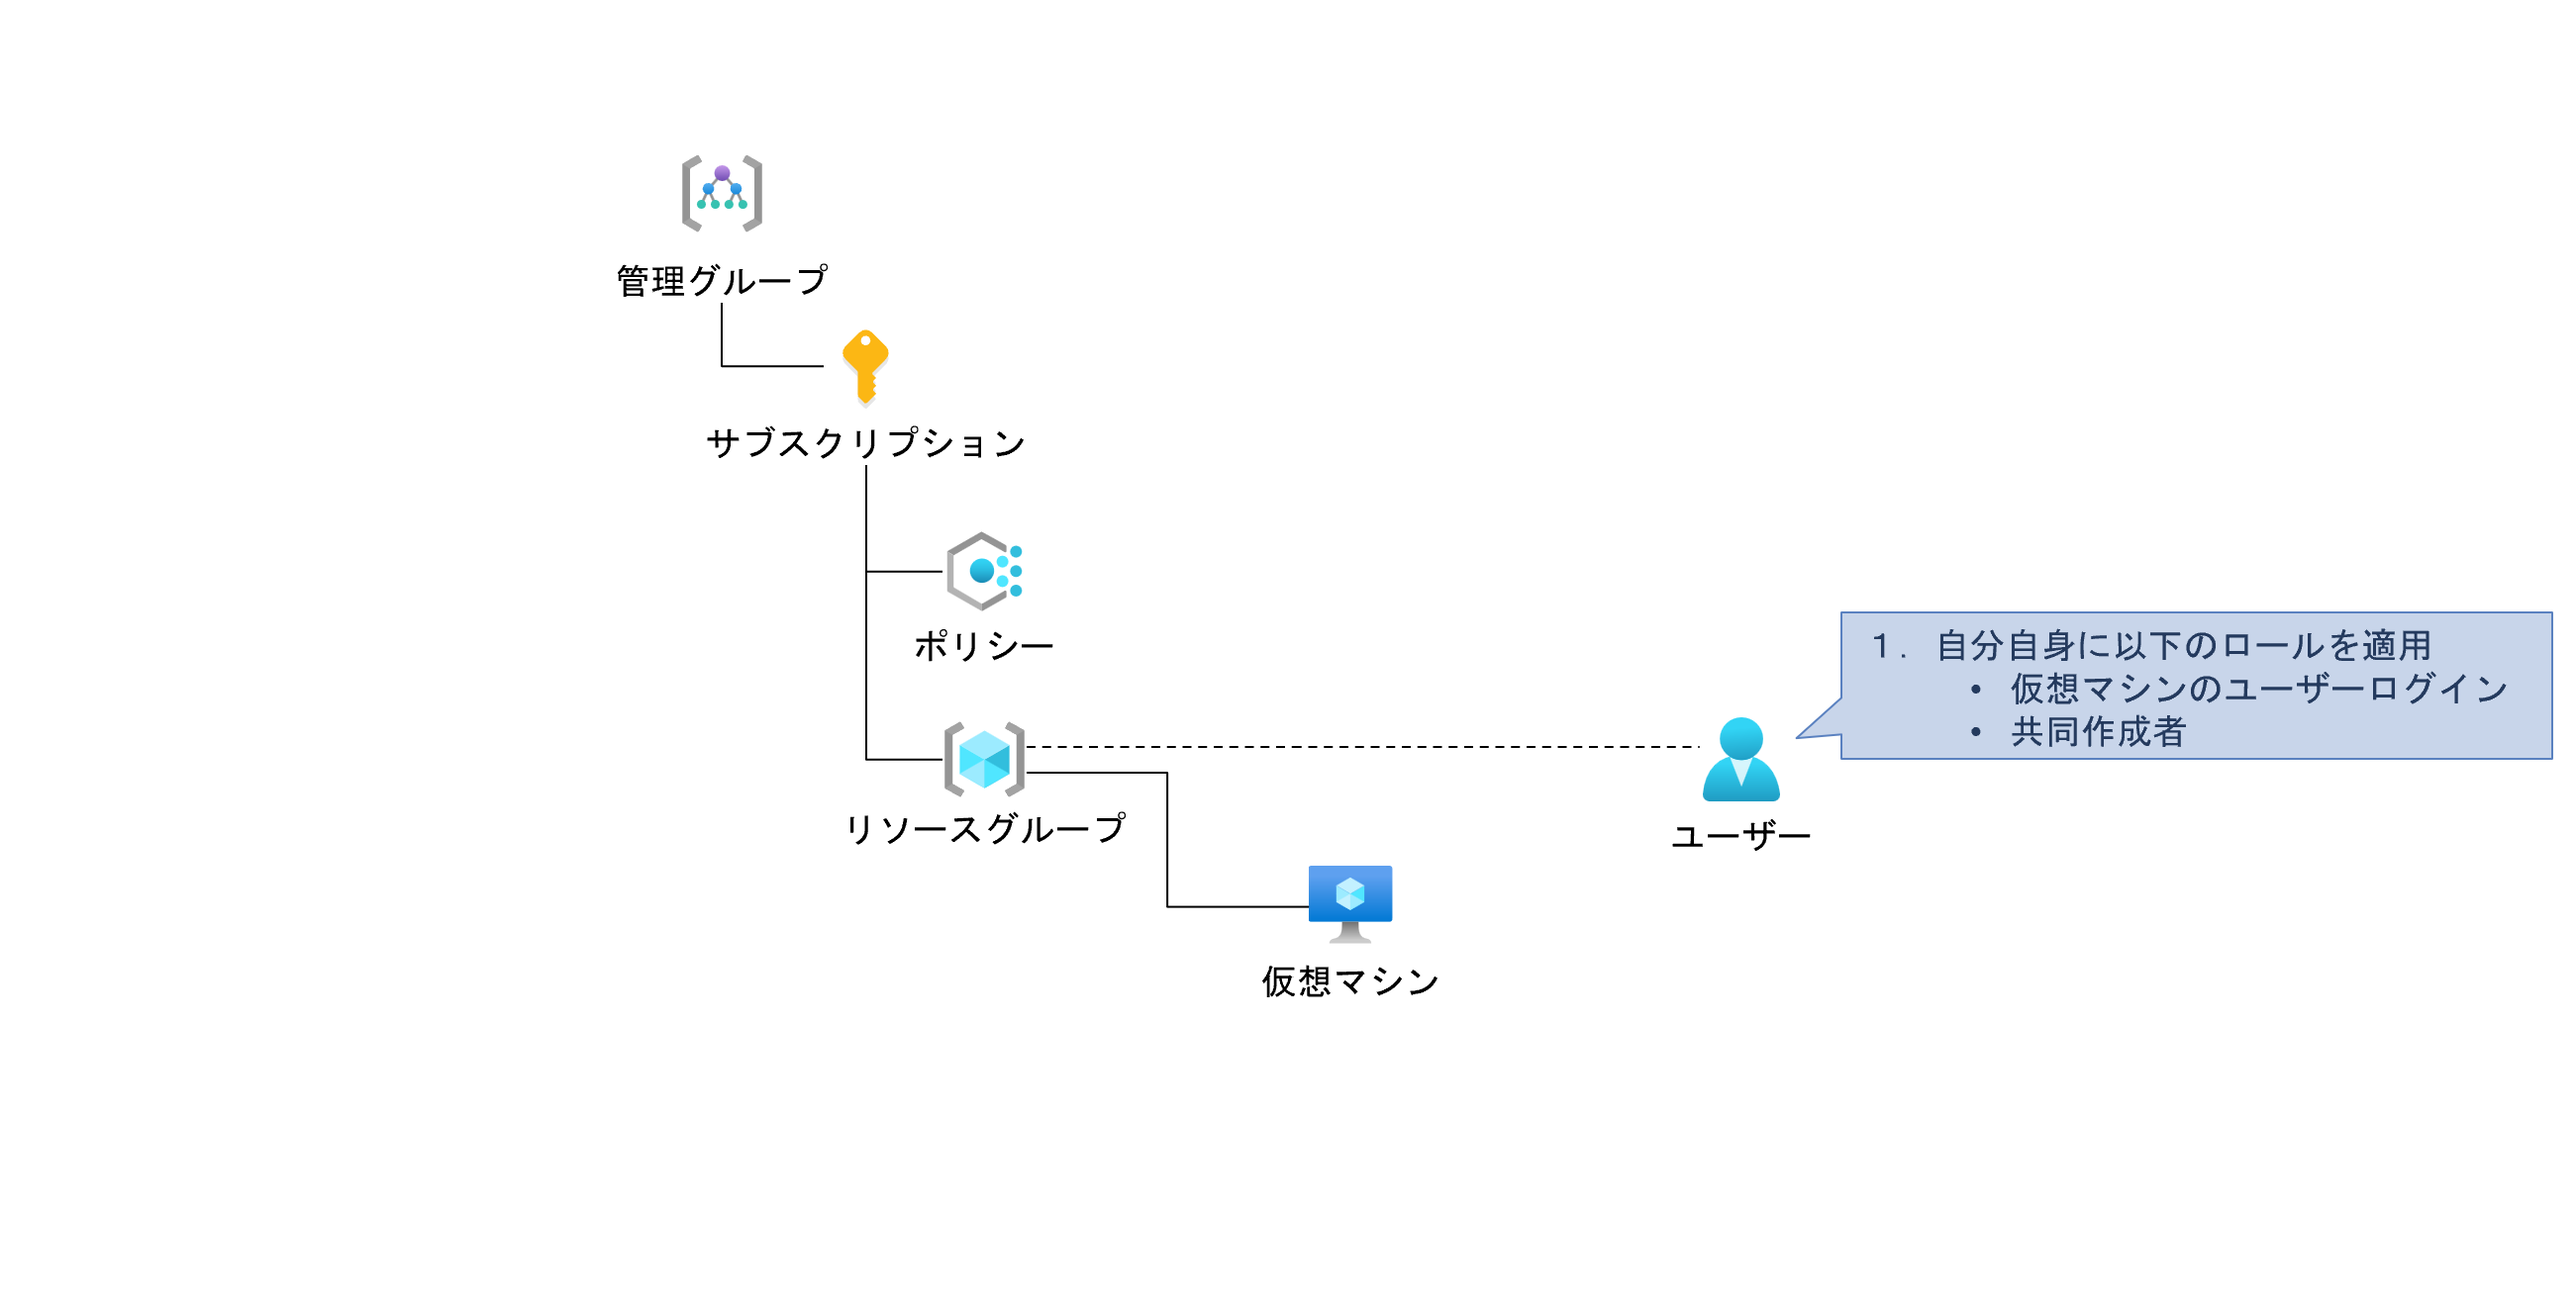
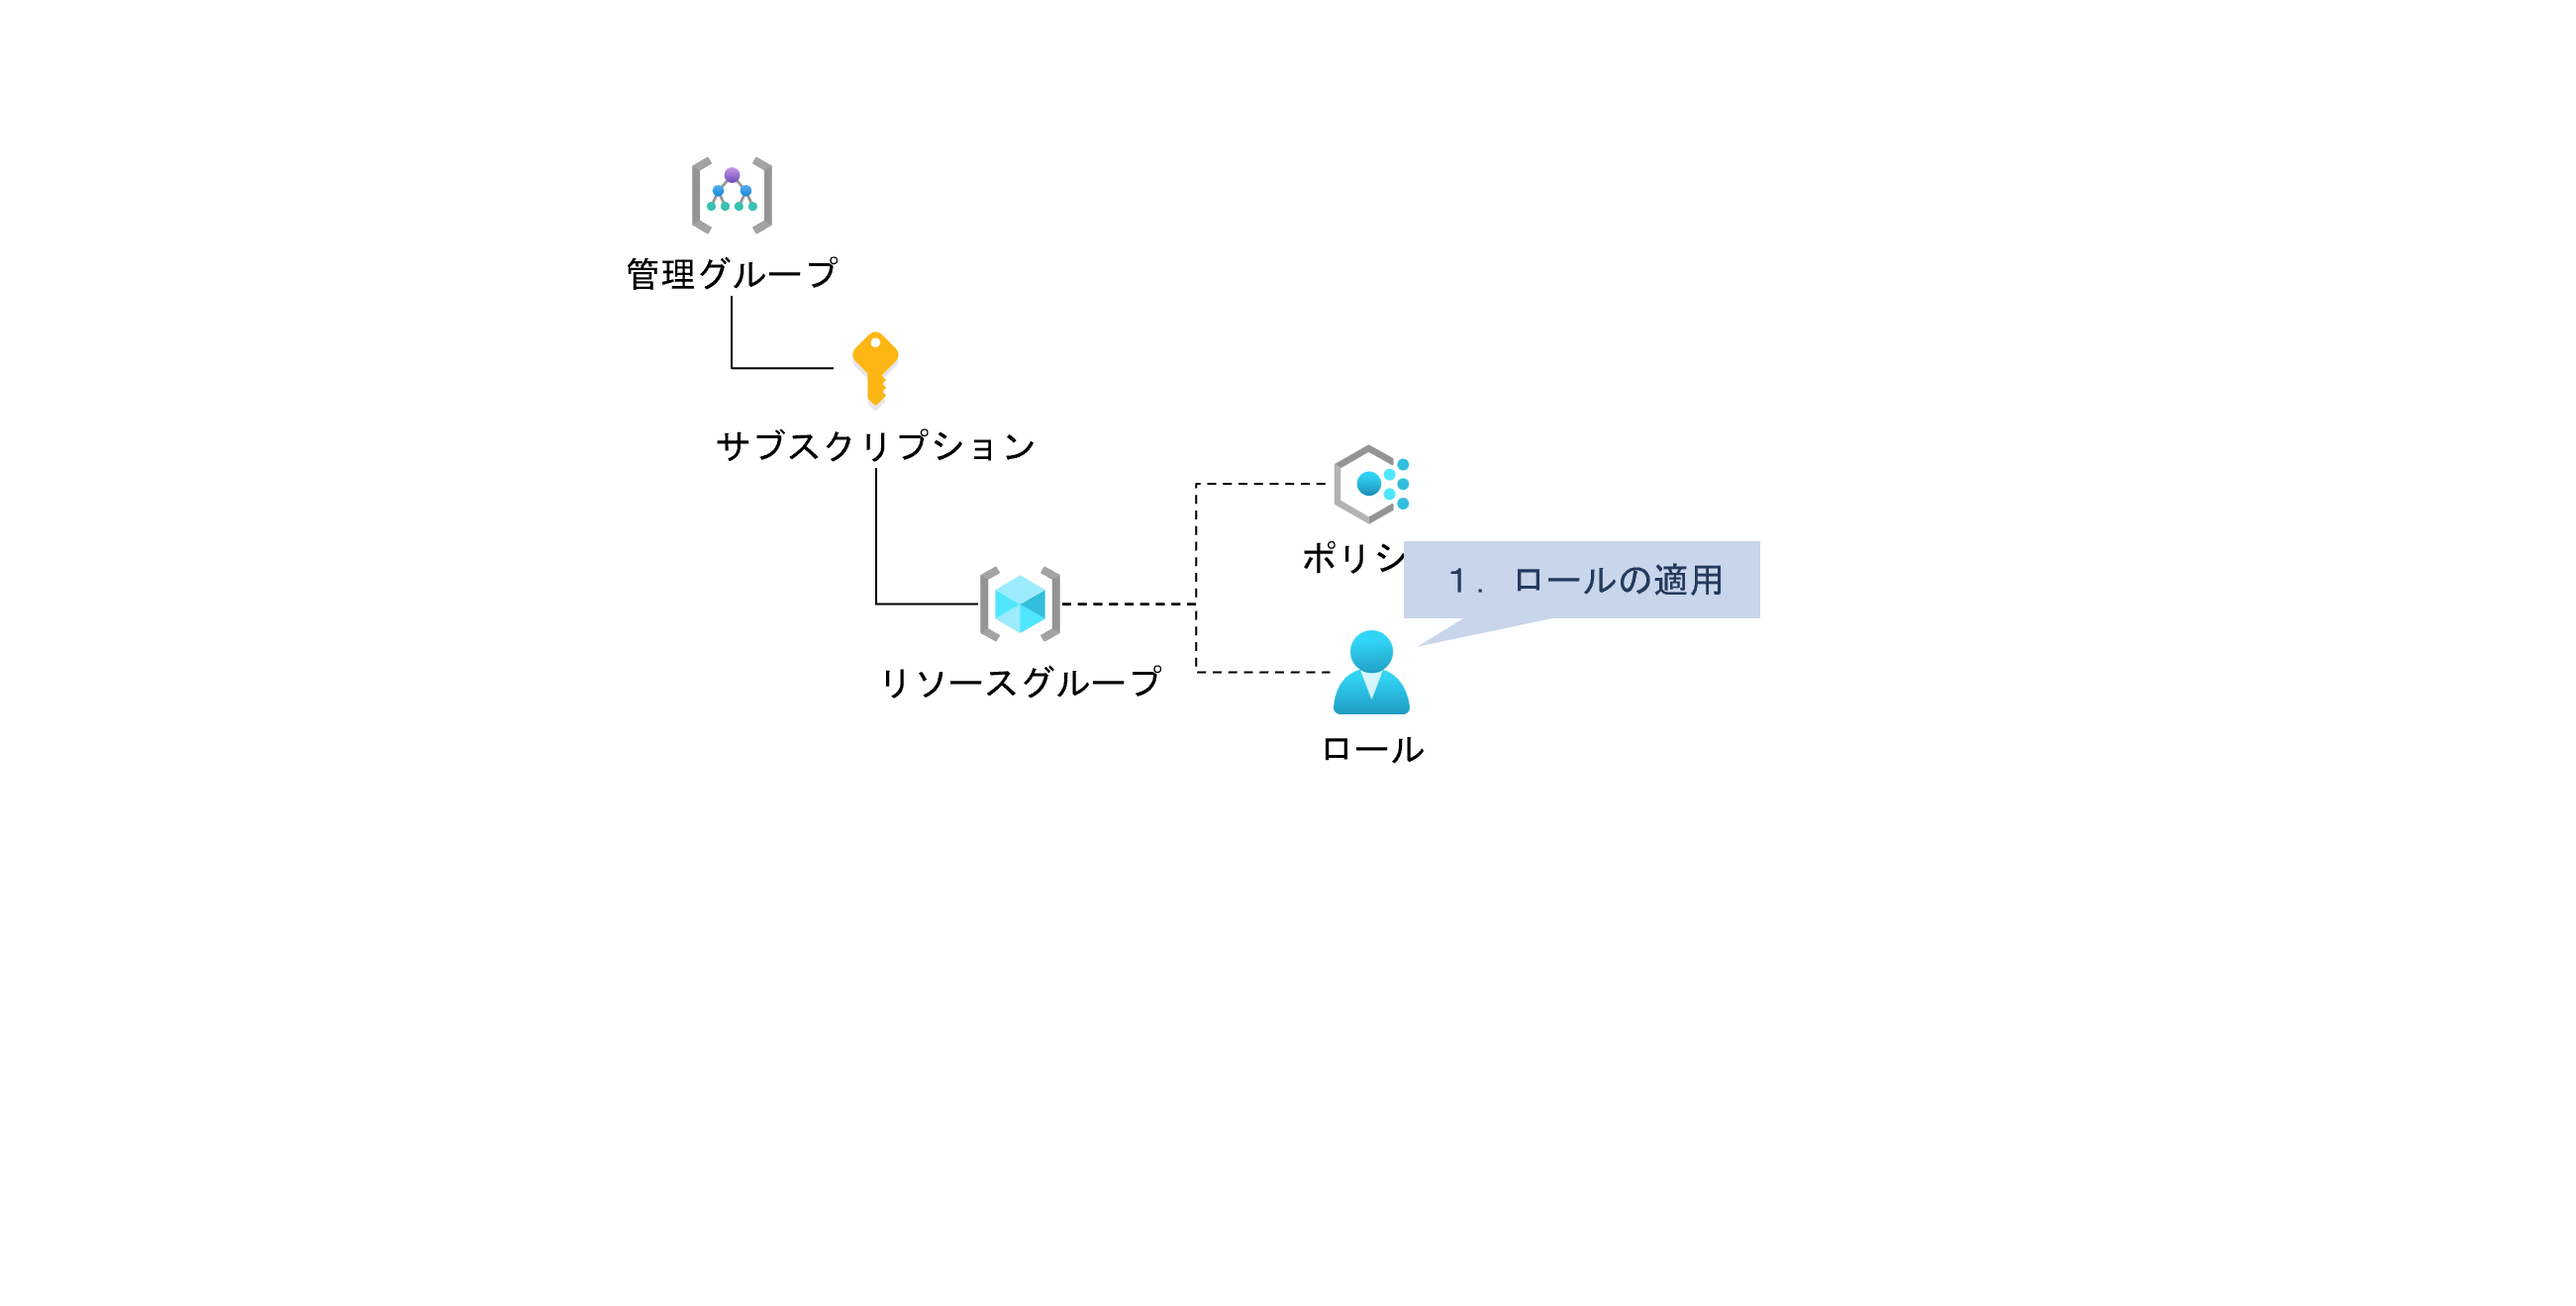
仮想マシンの修正

diff --git a/docs/exercise03.md b/docs/exercise03.md
@@ -1,4 +1,4 @@
-# Exercise3: 仮想マシン作成
+# Exercise5: 仮想マシン作成
 
 ## 【目次】
 
@@ -17,16 +17,27 @@
 
     ![](images/e03-0102-vm.png)
 
-1. 以下の設定をして「確認および作成」
+1. 仮想マシンの作成
 
-    * サブスクリプション： （今回指定のサブスクリプション）
-    * リソースグループ： （作成済みのリソースグループ）
-    * 仮想マシン名： （任意）
-    * 地域： `Japan East`
-    * イメージ： `Windows Server 2019 Datacenter`
-    * サイズ： `Standard_B2s`
-    * ユーザー名、パスワード： （任意）
+    1. サイズがポリシーによって制限されていることを確認
 
-    ![](images/e03-0103-vm.png)
+       「基本」の 「サイズ」にて「すべてのサイズ」を選択した際、ポリシーで制限されていることを確認
 
-1. 「確認および作成」で内容を確認して「作成」
+       (*) ポリシーが反映されるまで時間がかかります。
+            反映されていない場合、しばらく待ってから再度確認してください。
+
+        ![](images/e03-0103-vm.png)
+
+    1. 以下の設定をして「確認および作成」
+
+        * サブスクリプション： （今回指定のサブスクリプション）
+        * リソースグループ： （作成済みのリソースグループ）
+        * 仮想マシン名： （任意）
+        * 地域： `Japan East`
+        * イメージ： `Windows Server 2019 Datacenter`
+        * サイズ： `Standard_B2s` 
+        * ユーザー名、パスワード： （任意）
+
+        ![](images/e03-0104-vm.png)
+
+    1. 「確認および作成」で内容を確認して「作成」

diff --git a/docs/exercise05.md b/docs/exercise05.md
@@ -1,4 +1,4 @@
-# Exercise5: ロールの適用
+# Exercise4: ロールの適用
 
 ## 【目次】
 
@@ -9,7 +9,7 @@
 
 ## 自分自身にロールを適用
 
-1. Azureポータルから「リソースグループ」を開く
+1. Azureポータルから作成した「リソースグループ」を開く
 
 1. 「リソースグループ」の一覧から作成済みのリソースグループを選択
 
@@ -21,17 +21,25 @@
 
     ![](images/e05-0102-role.png)
 
-1. 「共同作成者」を選択して「次へ」
+1. ロールの割り当て
 
-    ![](images/e05-0103-role.png)
+    1. ロール
+    
+        「共同作成者」を選択して「次へ」
 
-1. メンバーページにて「メンバーを追加する」を選択、
-    右メニューにて、自分自身を検索して「選択」
-    登録されたら「次へ」
+        ![](images/e05-0103-role.png)
 
-    ![](images/e05-0104-role.png)
+    1. メンバー
+    
+        「メンバーを追加する」を選択、
+        右メニューにて、自分自身を検索して「選択」
+        登録されたら「次へ」
 
-1. 内容確認して「レビューと割り当て」
+        ![](images/e05-0104-role.png)
+
+    1. レビューと割り当て
+    
+        内容確認して「レビューと割り当て」
 
 1. 「ロールの割り当て」タブへ移動して、割り当てたユーザーが存在することを確認
 

diff --git a/docs/README.md b/docs/README.md
@@ -8,4 +8,4 @@
 1. [リソースグループ作成](exercise02.md)
 1. [ポリシーの適用](exercise04.md)
 1. [ロールの適用](exercise05.md)
-1. [仮想マシン作成](exercise03.md)
+1. [仮想マシン作成（オプション）](exercise03.md)
